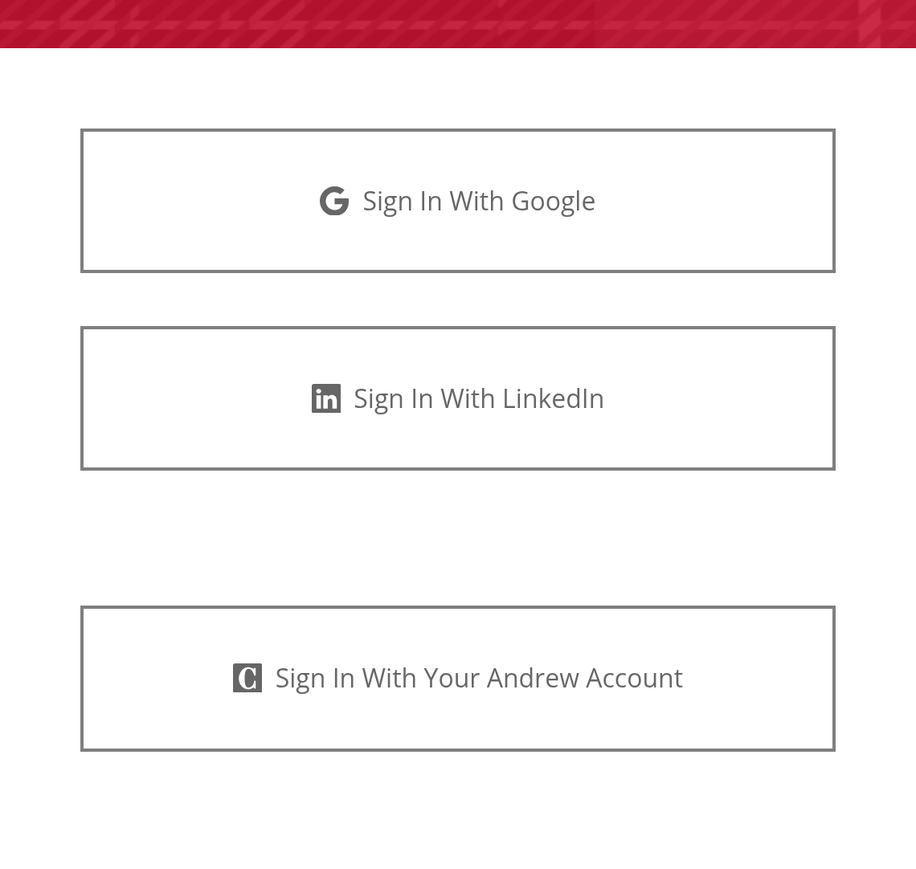
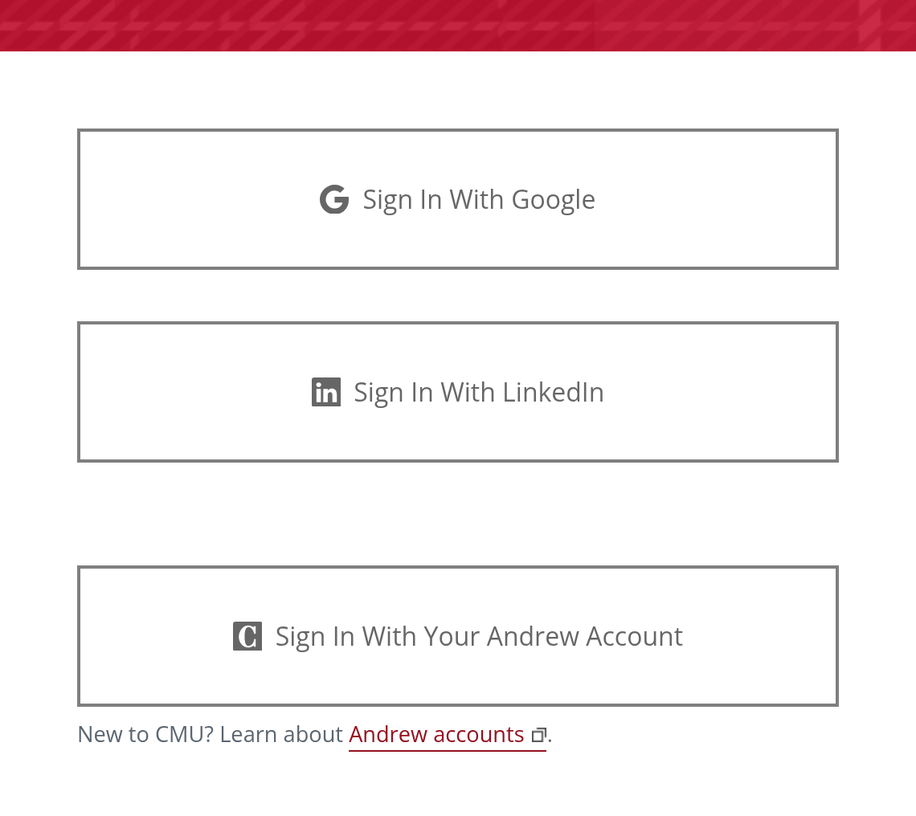
docs: Forbes & Moreword's new address, and a new sign-in example
* About links Forbes & Moreword at themes.andrew.cmu.edu/forbes-and-moreword
* The Sign-In Icon example shows the hint under the Andrew account button

diff --git a/docs/about.html b/docs/about.html
@@ -224,16 +224,19 @@
           </div>
           <div>
             <figure class="cmu-shot cmu-shot--browser">
-              <a href="https://forbesandmoreword.andrew.cmu.edu/" tabindex="-1" aria-hidden="true"
+              <a
+                href="https://themes.andrew.cmu.edu/forbes-and-moreword/"
+                tabindex="-1"
+                aria-hidden="true"
                 ><img
-                  src="https://forbesandmoreword.andrew.cmu.edu/images/cmu-web-preview.webp"
+                  src="https://themes.andrew.cmu.edu/forbes-and-moreword/images/cmu-web-preview.webp"
                   alt="Forbes &amp; Moreword's home page."
                   width="1040"
                   height="656"
               /></a>
             </figure>
             <h2
-              ><a class="external" href="https://forbesandmoreword.andrew.cmu.edu/"
+              ><a class="external" href="https://themes.andrew.cmu.edu/forbes-and-moreword/"
                 >Forbes &amp; Moreword</a
               ></h2
             >

diff --git a/docs/assets.html b/docs/assets.html
@@ -404,9 +404,9 @@
                 ><figure class="cmu-shot"
                   ><img
                     src="images/sign-in-icon-in-use.png"
-                    alt="A sign-in card with Sign In With Google, Sign In With LinkedIn and Sign In With Your Andrew Account, the last with the C."
+                    alt="A sign-in card with Sign In With Google, Sign In With LinkedIn and Sign In With Your Andrew Account, the last with the C and a hint under it."
                     width="458"
-                    height="434"
+                    height="408"
                     loading="lazy" /></figure
               ></div>
             </div>
